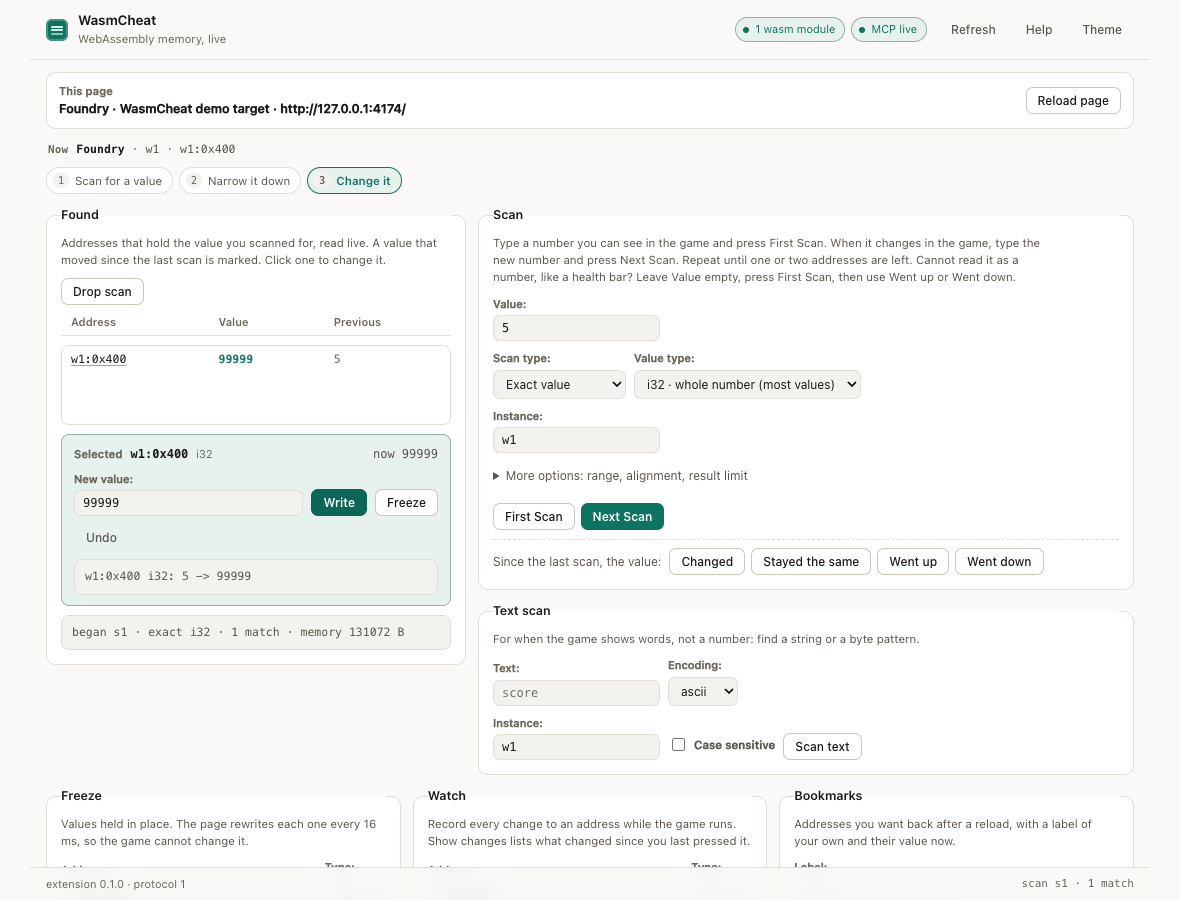
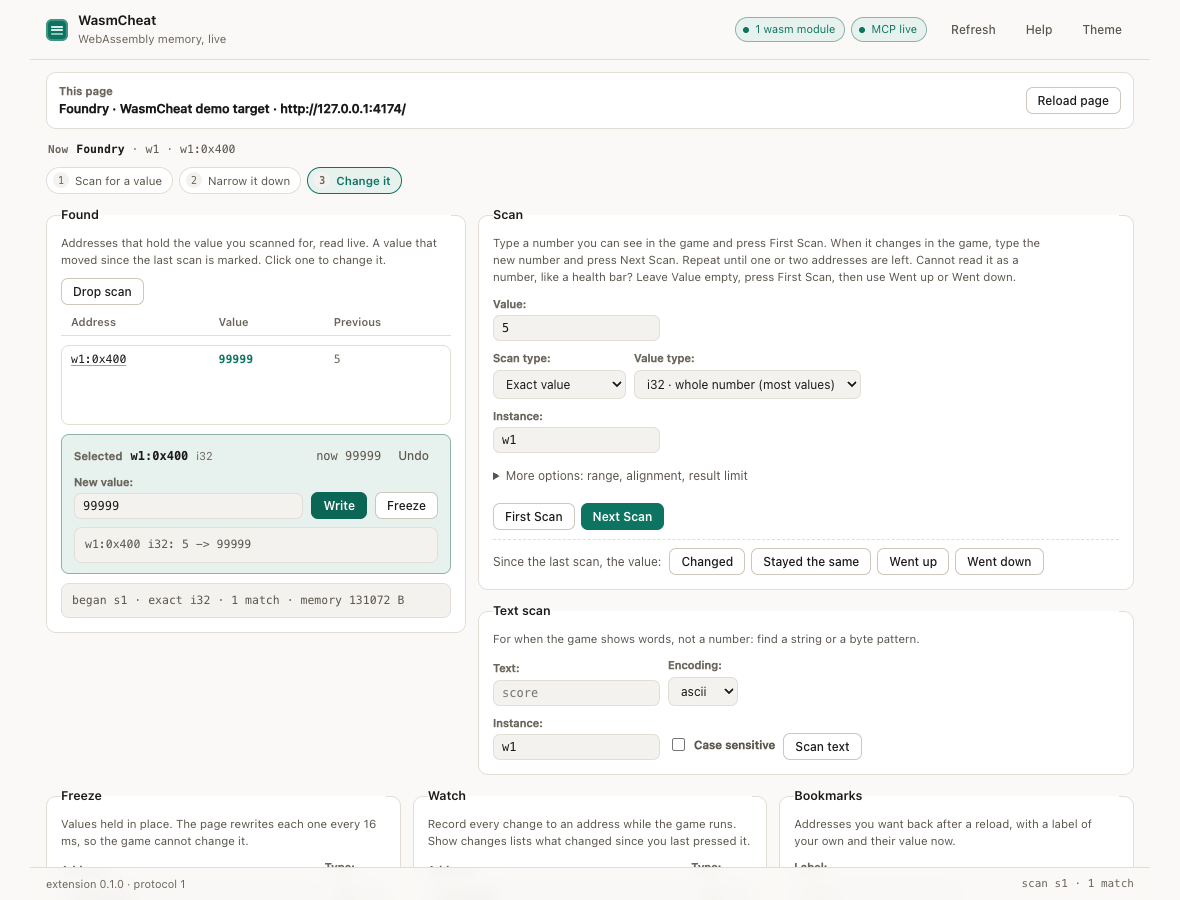
feat: ready for the Chrome Web Store, without submitting anything (#2)
* feat: ready for the Chrome Web Store, without submitting anything

- docs/STORE_LISTING.md: name, summary, description, single purpose, a justification for every
  permission, data disclosures, and the review risks to expect.
- `npm run package` also writes wasmcheat-store-v<version>.zip (manifest at the root, as the store
  requires); the screenshots test now renders the 1280x800 store screenshots in docs/store/.
- The unused activeTab permission is gone; host access already covers it.
- The editor's Undo sits in its header instead of wrapping onto a line of its own.

* feat: a welcome tab on install says where the panel is, once and in the background

* docs: say plainly what the welcome tab shows

---------

Changed region(s): [[0.061, 0.4978, 0.3661, 0.7156]]

diff --git a/packages/extension/welcome.html b/packages/extension/welcome.html
@@ -1,0 +1,33 @@
+<!doctype html>
+<html lang="en">
+  <head>
+    <meta charset="utf-8" />
+    <meta name="viewport" content="width=device-width, initial-scale=1" />
+    <title>WasmCheat is installed</title>
+    <link rel="icon" href="icons/32.png" />
+    <link rel="stylesheet" href="popup.css" />
+    <style>
+      /* One page, read once: the three steps from install to a changed value, nothing else. */
+      body { width: auto; max-width: 640px; margin: 0 auto; padding: 48px 24px; }
+      h1 { display: flex; align-items: center; gap: 10px; font-size: 22px; margin: 0 0 6px; }
+      h1 img { width: 28px; height: 28px; }
+      .lede { color: var(--ink-2); margin: 0 0 28px; font-size: 14px; line-height: 1.5; }
+      ol { margin: 0; padding: 0; list-style: none; display: grid; gap: 12px; counter-reset: step; }
+      li { counter-increment: step; display: grid; grid-template-columns: 28px 1fr; gap: 12px; padding: 14px 16px; background: var(--surface); border: 1px solid var(--line); border-radius: 10px; font-size: 14px; line-height: 1.5; }
+      li::before { content: counter(step); display: grid; place-items: center; width: 24px; height: 24px; border-radius: 50%; background: var(--accent-soft); color: var(--accent); font-weight: 650; font-size: 12px; }
+      li b { display: block; margin-bottom: 2px; }
+      kbd { font-family: var(--mono); font-size: 12px; padding: 1px 5px; border: 1px solid var(--line-strong); border-bottom-width: 2px; border-radius: 4px; background: var(--surface-2); }
+      .note { margin-top: 24px; color: var(--ink-3); font-size: 12.5px; line-height: 1.5; }
+    </style>
+  </head>
+  <body>
+    <h1><img src="icons/128.png" alt="" />WasmCheat is installed</h1>
+    <p class="lede">Find a number in a browser game and change it. Here is the whole of it.</p>
+    <ol>
+      <li><div><b>Open a game</b>A web game built with Unity, Godot or Emscripten, a YouTube Playable or an itch.io game. Let it start.</div></li>
+      <li><div><b>Open the panel</b>Press <kbd>F12</kbd> (on a Mac <kbd>⌥</kbd> <kbd>⌘</kbd> <kbd>I</kbd>) and choose the <b style="display:inline">WasmCheat</b> tab at the top of DevTools. If it is not there, look under <kbd>»</kbd>.</div></li>
+      <li><div><b>Scan, narrow, change</b>Type a number you see in the game and press First Scan. Change it in the game, type the new number, press Next Scan. Click the address that is left and press Write or Freeze.</div></li>
+    </ol>
+    <p class="note">The toolbar button tells you whether the tab in front has WebAssembly. WasmCheat collects nothing and talks to no server but your own computer. Use it on games and programs you own or may test.</p>
+  </body>
+</html>

diff --git a/tests/e2e/screenshots.spec.ts b/tests/e2e/screenshots.spec.ts
@@ -1,3 +1,4 @@
+import { mkdir } from 'node:fs/promises';
 import { test } from '@playwright/test';
 import {
   BRIDGE_PORT,
@@ -32,6 +33,7 @@ test('screenshots', async () => {
     for (let i = 0; i < 6; i += 1) await page.click('#mine');
     await sleep(400);
     await page.screenshot({ path: 'docs/img/demo.png' });
+    await mkdir('docs/store', { recursive: true });
 
     const tabs = await call<{ tabId: number; url: string }[]>(mcp, 'wasmcheat_list_tabs');
     const tabId = tabs.data.find((tab) => tab.url.startsWith(DEMO_URL))?.tabId;
@@ -67,9 +69,19 @@ test('screenshots', async () => {
       await panel.setViewportSize({ width: 1180, height: 900 });
     }
 
+    // The Chrome Web Store takes 1280x800 screenshots; docs/STORE_LISTING.md names these files.
+    await panel.setViewportSize({ width: 1280, height: 800 });
+    await panel.waitForTimeout(300);
+    await panel.screenshot({ path: 'docs/store/1-change-a-value.png' });
+    await panel.setViewportSize({ width: 1180, height: 900 });
+
     await panel.click('#theme-toggle');
     await panel.waitForTimeout(300);
     await panel.screenshot({ path: 'docs/img/panel-dark.png', fullPage: false });
+    await panel.setViewportSize({ width: 1280, height: 800 });
+    await panel.waitForTimeout(300);
+    await panel.screenshot({ path: 'docs/store/2-dark-theme.png' });
+    await panel.setViewportSize({ width: 1180, height: 900 });
     await panel.click('#help-open');
     await panel.waitForTimeout(300);
     await panel.screenshot({ path: 'docs/img/help.png', fullPage: false });

diff --git a/packages/extension/panel.html b/packages/extension/panel.html
@@ -96,6 +96,7 @@
               <code id="pick-address"></code>
               <span id="pick-type" class="note"></span>
               <span id="pick-now" class="pick__now" aria-live="off"></span>
+              <button id="pick-undo" type="button" class="quiet pick__undo" hidden title="Write back the value from before your last write">Undo</button>
             </p>
             <div class="row">
               <label class="field field--grow">
@@ -104,7 +105,6 @@
               </label>
               <button id="pick-write" type="button" class="primary">Write</button>
               <button id="pick-freeze" type="button">Freeze</button>
-              <button id="pick-undo" type="button" class="quiet" hidden title="Write back the value from before your last write">Undo</button>
             </div>
             <pre id="pick-out" class="out"></pre>
           </div>

diff --git a/packages/extension/src/sw.ts b/packages/extension/src/sw.ts
@@ -1333,7 +1333,12 @@ chrome.tabs.onUpdated.addListener(async (tabId, changeInfo) => {
 });
 
 chrome.runtime.onStartup.addListener(() => connect());
-chrome.runtime.onInstalled.addListener(() => connect());
+chrome.runtime.onInstalled.addListener((details) => {
+  connect();
+  // Someone who just pressed Load unpacked has no idea where the panel is; say it once, in the
+  // background so the tab they were on keeps focus. Updates and reloads stay quiet.
+  if (details.reason === 'install') void chrome.tabs.create({ url: 'welcome.html', active: false });
+});
 
 // Keep trying to reach the local bridge for as long as the worker is alive. The alarm (30s is
 // Chrome's minimum period) wakes a suspended worker and redials, so the bridge comes back on its own.

diff --git a/packages/extension/panel.css b/packages/extension/panel.css
@@ -864,6 +864,11 @@ button:disabled {
   grid-column: 1 / -1;
 }
 
+.pick__undo {
+  padding: 2px 8px;
+  font-size: 12px;
+}
+
 .pick__now {
   margin-left: auto;
   color: var(--ink-2);

diff --git a/docs/STORE_LISTING.md b/docs/STORE_LISTING.md
@@ -1,0 +1,87 @@
+# Chrome Web Store listing
+
+Everything the Web Store submission form asks for, ready to paste. Nothing here is submitted until
+the maintainer does it from their developer account. Upload `release/wasmcheat-store-v<version>.zip`
+from `npm run package`: the same files as the release asset, with `manifest.json` at the root as the
+store requires.
+
+## Store listing
+
+**Name:** WasmCheat
+
+**Summary** (132 characters max):
+
+> Find a number in a browser game and change it. A WebAssembly memory scanner in a DevTools panel.
+
+**Category:** Developer Tools
+
+**Language:** English
+
+**Description:**
+
+> WasmCheat is a memory scanner for games and apps built with WebAssembly (Unity, Godot,
+> Emscripten, Rust), the way Cheat Engine is for desktop programs, but inside your browser.
+>
+> Open DevTools on the game's tab and choose the WasmCheat tab:
+>
+> 1. Type a number you can see (your coins, your score) and press First Scan.
+> 2. Change it in the game, type the new number and press Next Scan, until one address is left.
+> 3. Click it, type a new value and press Write, or Freeze to hold it there.
+>
+> For a value you cannot read, like a health bar, scan with no value and narrow with Went up,
+> Went down, Changed or Stayed the same. Values update live, and every change is written to a log.
+>
+> It also finds games inside iframes (YouTube Playables, itch.io) and Web Workers, and has
+> watchpoints, function patches, pointer chains and a speed control for those who go further.
+> An optional local server lets an AI agent use the same tools.
+>
+> WasmCheat collects nothing and connects to no server but your own computer. It is open source
+> under the MIT license.
+>
+> Use it on games and programs you own or are allowed to test, not to cheat other players online.
+
+**Screenshots** (1280x800, regenerated by `WASMCHEAT_SHOTS=1 npx playwright test tests/e2e/screenshots.spec.ts`):
+
+1. `docs/store/1-change-a-value.png`: the Found list with an address picked and its value changed.
+2. `docs/store/2-dark-theme.png`: the same in the dark theme.
+
+**Icon:** `packages/extension/icons/128.png`
+
+**Homepage / support URL:** https://github.com/alfman99/wasm-ce
+
+## Privacy tab
+
+**Single purpose:**
+
+> Lets a person read and change the memory of a WebAssembly program running in a web page, from a
+> DevTools panel, to inspect or modify games and apps they own or may test.
+
+**Permission justifications:**
+
+| Permission | Why it is needed |
+| --- | --- |
+| Host access to `http://*/*` and `https://*/*` | The page agent must run in a page before the game starts, to see the WebAssembly modules it creates. The game can be on any site, and often in a cross-origin iframe. |
+| `scripting` | Injects the page agent into a tab that was already open when the extension was installed, so the user does not have to reload by hand. |
+| `tabs` | Names the tab the panel works on (title and address) and notices when that tab reloads or closes. |
+| `storage` | Keeps the panel's theme and the pairing token for the optional local MCP server. |
+| `alarms` | Wakes the service worker every 30 seconds to reconnect to the optional local MCP server. |
+
+**Remote code:** No. All JavaScript ships in the package. The Hooks tool lets a user type a function
+body that runs in the page they are inspecting; it is code the user writes, not code fetched from
+anywhere.
+
+**Data usage:** the extension collects none of the listed data types. Certify all three
+disclosures (no sale, no unrelated use, no creditworthiness use).
+
+**Privacy policy URL:** https://github.com/alfman99/wasm-ce/blob/main/PRIVACY.md (works once the
+repository is public).
+
+## Review risks to expect
+
+- **The name and purpose say "cheat".** Reviewers may question it. The single-purpose statement and
+  the description frame it as inspecting your own programs, which is what the Policy section of the
+  README says too. If it is rejected on this ground, a rename is the usual way through.
+- **Broad host access** triggers an in-depth review and a slower first approval. It cannot be
+  narrowed without breaking the main use: games load from any domain.
+- **The Hooks tool** runs user-typed code with `new Function` in the page. Policy forbids remote
+  code, not code the user types, but say so in the reviewer notes if asked.

diff --git a/CHANGELOG.md b/CHANGELOG.md
@@ -12,6 +12,7 @@ First public release.
   frame that loads after the page.
 - Watchpoints (which function wrote this address), function patches, export and import hooks,
   pointer chains, a speed hack, saved scans and bookmarks.
+- A welcome tab on install says where the panel is and how to use it, once.
 - An optional MCP server so an AI agent can do all of the above, over an authenticated local socket.
   Every change, from the panel or an agent, lands in one audit log, and an agent reading the log
   right after an action always sees that action.

diff --git a/README.md b/README.md
@@ -25,7 +25,7 @@ No programming needed. Works in Chrome, Brave, Edge and other Chromium browsers 
    **Developer mode**.
 3. Press **Load unpacked** and pick the unzipped `wasmcheat` folder.
 
-That is all. The MCP server below is optional, for letting an AI agent drive it. WasmCheat collects
+That is all: a welcome tab opens and shows where the panel is. The MCP server below is optional, for letting an AI agent drive it. WasmCheat collects
 nothing and talks to no server but your own machine: see [PRIVACY.md](PRIVACY.md).
 
 ## Use it

diff --git a/CONTRIBUTING.md b/CONTRIBUTING.md
@@ -63,7 +63,9 @@ git tag v0.2.0 && git push origin v0.2.0
 ```
 
 The release workflow builds, runs the tests, and attaches `wasmcheat-extension-v0.2.0.zip` to a
-GitHub release. `npm run package` builds the same zip locally.
+GitHub release. `npm run package` builds the same zip locally, plus `wasmcheat-store-v0.2.0.zip`
+for the Chrome Web Store; [docs/STORE_LISTING.md](docs/STORE_LISTING.md) has the listing text,
+the screenshots and the permission justifications.
 
 ## Ground rules
 
